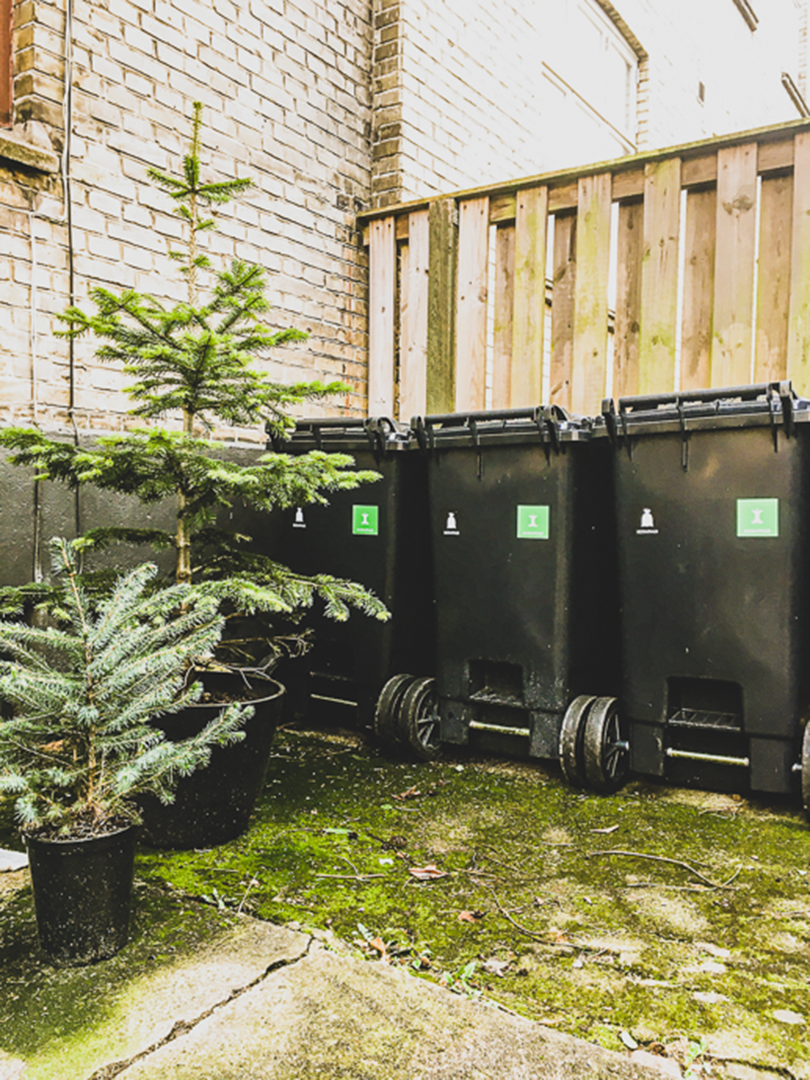
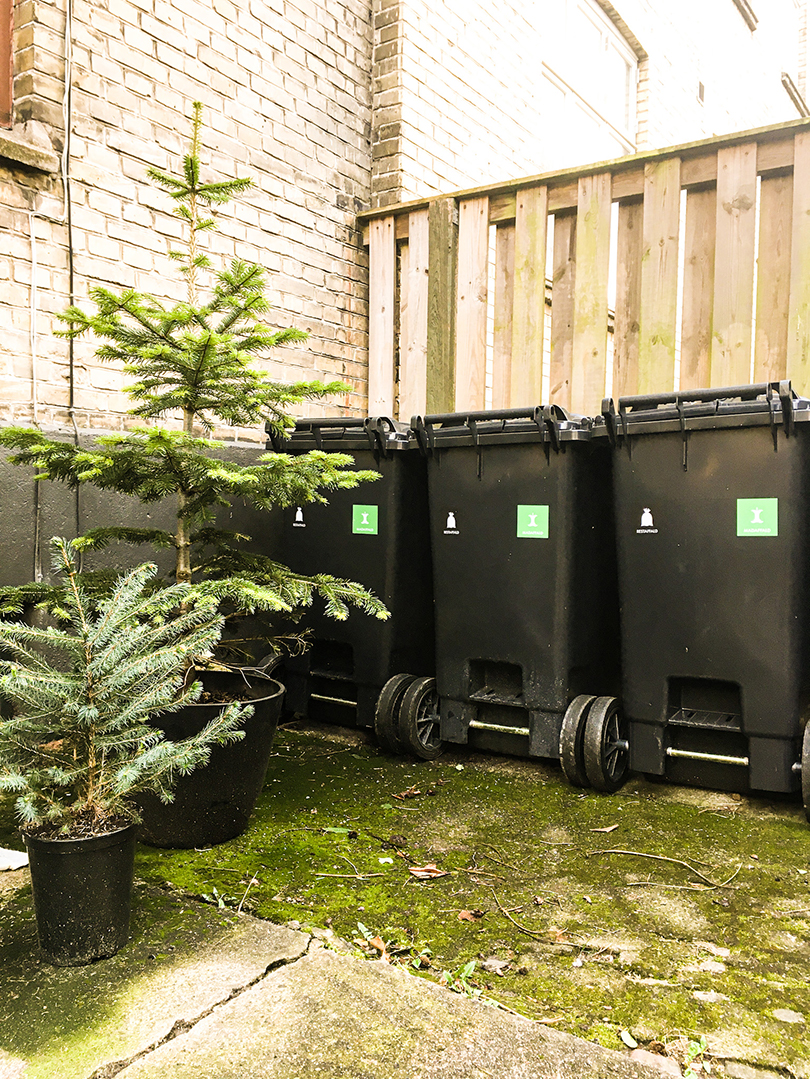
ændrede png navn til korrekt

diff --git a/hvordan-affald-sorteres-i-odense-komune.html b/hvordan-affald-sorteres-i-odense-komune.html
@@ -178,10 +178,10 @@
                     <p>6 affaldstyper indsamles fra hustande, resten skal afleveres på genbrugsstationen. Vi skal genanvende mindst 50 % af husholdningsaffaldet inden 2022, og derfor skal alle borgere sortere mere, så vi i fællesskab kan nå målet. </p>
                 </div>
                 <picture class="teaser__img">
-                    <source media="(max-width: 991px)" srcset="images/nytpngskraldespande.png?anchor=center&amp;mode=crop&amp;width=300&amp;height=500&amp;rnd=131601520550000000&amp;quality=80" />
-                    <source media="(max-width: 1200px)" srcset="images/nytpngskraldespande.png?anchor=center&amp;mode=crop&amp;width=400&amp;height=600&amp;rnd=131601520550000000&amp;quality=80" />
-                    <source media="(max-width: 1600px)" srcset="images/nytpngskraldespande.png?anchor=center&amp;mode=crop&amp;width=500&amp;height=800&amp;rnd=131601520550000000&amp;quality=80" />
-                    <img src="images/nytpngskraldespande.png" alt="Skraldespande med logoer fra den nye affaldsordning." title="Affaldsordningen 2020." />
+                    <source media="(max-width: 991px)" srcset="images/skraldespande.png?anchor=center&amp;mode=crop&amp;width=300&amp;height=500&amp;rnd=131601520550000000&amp;quality=80" />
+                    <source media="(max-width: 1200px)" srcset="images/skraldespande.png?anchor=center&amp;mode=crop&amp;width=400&amp;height=600&amp;rnd=131601520550000000&amp;quality=80" />
+                    <source media="(max-width: 1600px)" srcset="images/skraldespande.png?anchor=center&amp;mode=crop&amp;width=500&amp;height=800&amp;rnd=131601520550000000&amp;quality=80" />
+                    <img src="images/skraldespande.png" alt="Skraldespande med logoer fra den nye affaldsordning." title="Affaldsordningen 2020." />
                 </picture>
             </div>
         </section>
